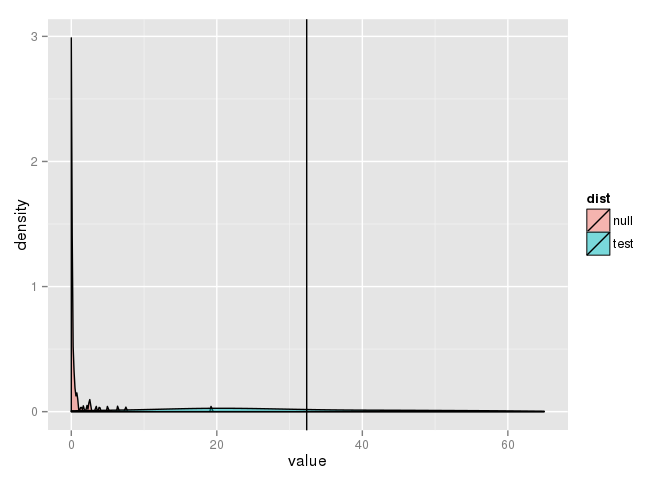
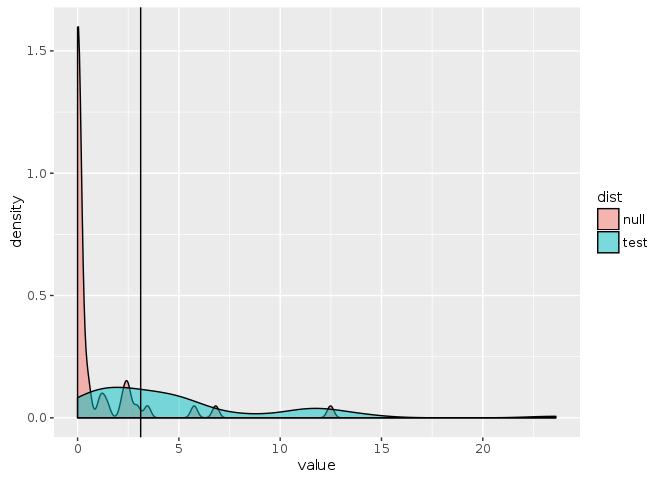
format DOI

diff --git a/README.md b/README.md
@@ -14,7 +14,7 @@ Install the package:
 
 ``` r
 library("devtools")
-install_github("cboettig/pmc")
+install_github("cboettig/pmc2")
 ```
 
 A trivial example with data simulated from the `lambda` model.
@@ -22,9 +22,14 @@ A trivial example with data simulated from the `lambda` model.
 ``` r
 library("pmc")
 library("geiger")
-phy <- sim.bdtree(n=20)
-dat <- sim.char(rescale(phy, "lambda", .2), 1)[,1,]
-out <- pmc(phy, dat, "BM", "lambda", nboot = 100)
+```
+
+    ## Loading required package: ape
+
+``` r
+phy <- sim.bdtree(n=10)
+dat <- sim.char(rescale(phy, "lambda", .5), 1)[,1,]
+out <- pmc(phy, dat, "BM", "lambda", nboot = 50)
 ```
 
 Plot the results:
@@ -34,6 +39,20 @@ dists <- data.frame(null = out$null, test = out$test)
 library("ggplot2")
 library("tidyr")
 library("dplyr")
+```
+
+    ## 
+    ## Attaching package: 'dplyr'
+
+    ## The following objects are masked from 'package:stats':
+    ## 
+    ##     filter, lag
+
+    ## The following objects are masked from 'package:base':
+    ## 
+    ##     intersect, setdiff, setequal, union
+
+``` r
 dists %>% 
   gather(dist, value) %>%
   ggplot(aes(value, fill = dist)) + 
@@ -46,4 +65,4 @@ dists %>%
 Citation
 --------
 
-Carl Boettiger, Graham Coop, Peter Ralph (2012) Is your phylogeny informative? Measuring the power of comparative methods, Evolution 66 (7) 2240-51. <doi:10.1111/j.1558-5646.2011.01574.x>
+Carl Boettiger, Graham Coop, Peter Ralph (2012) Is your phylogeny informative? Measuring the power of comparative methods, Evolution 66 (7) 2240-51. <http://doi.org/10.1111/j.1558-5646.2011.01574.x>
